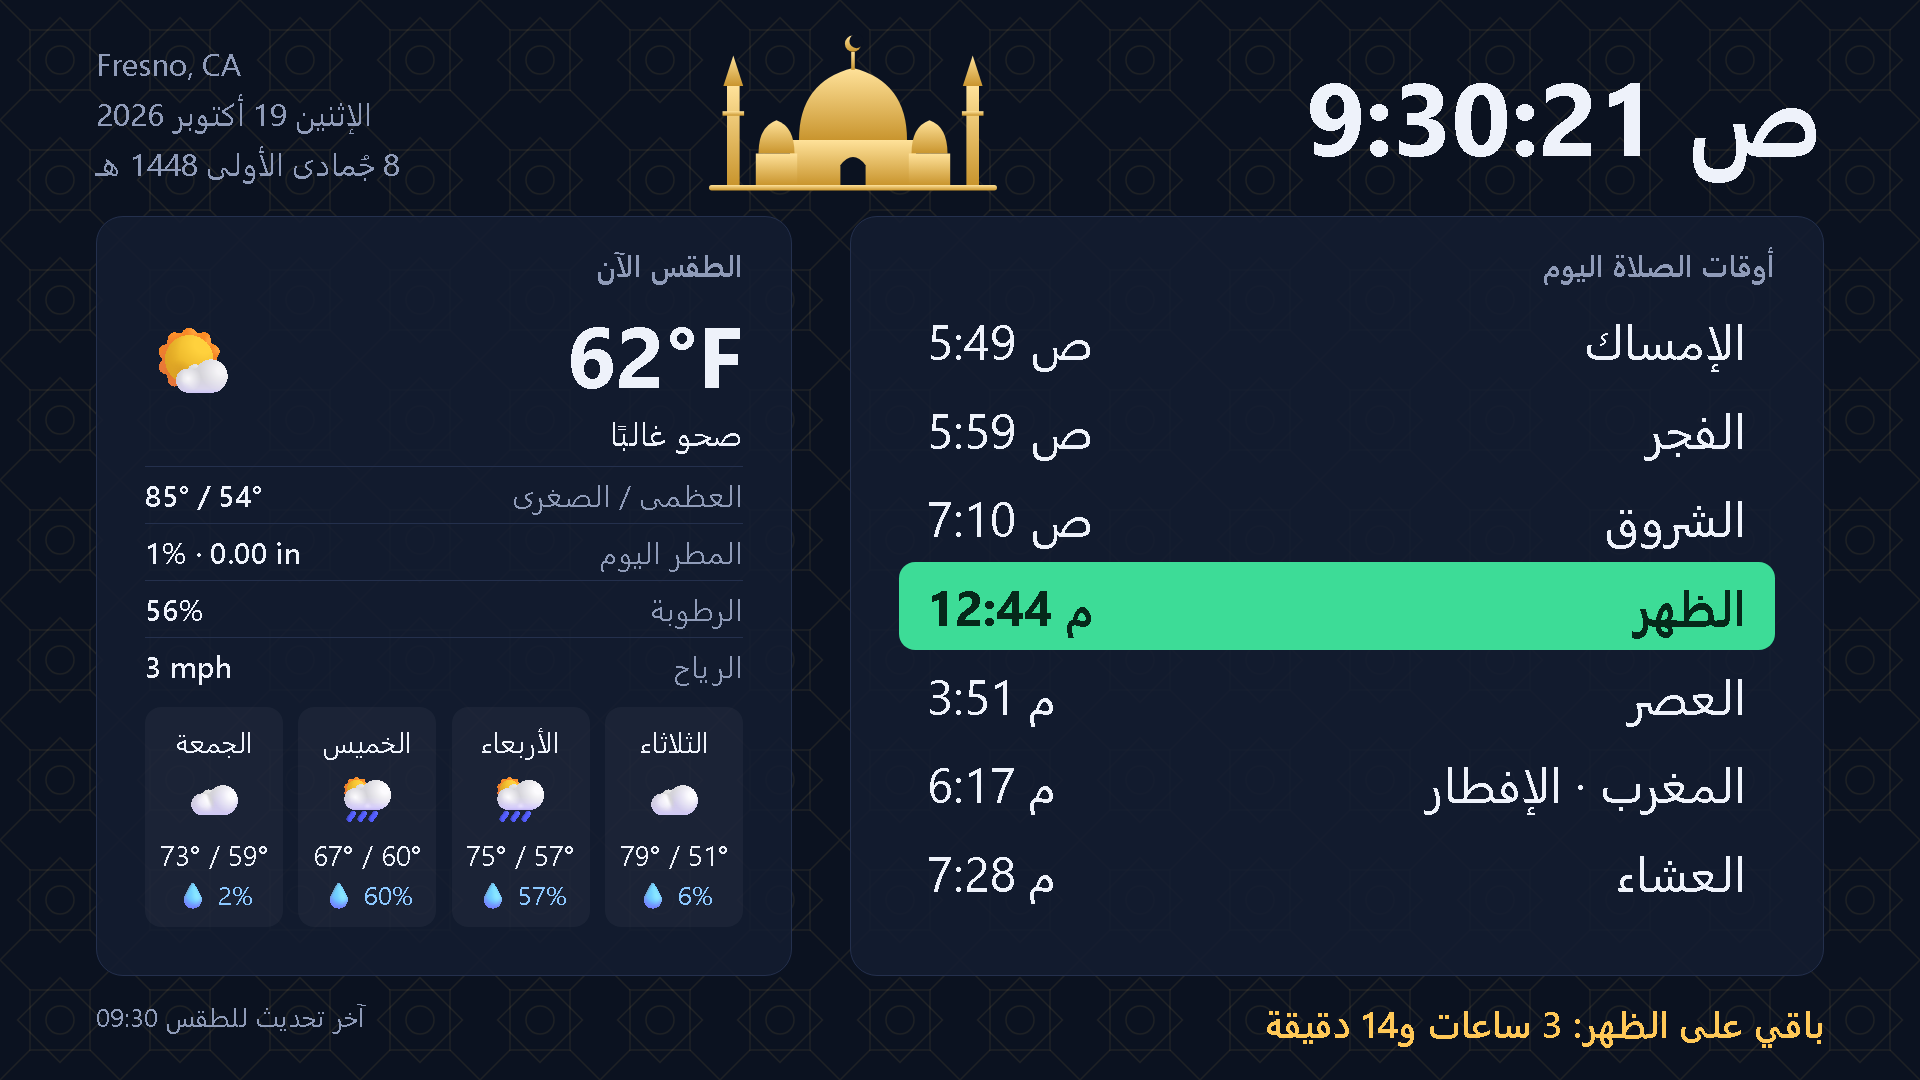
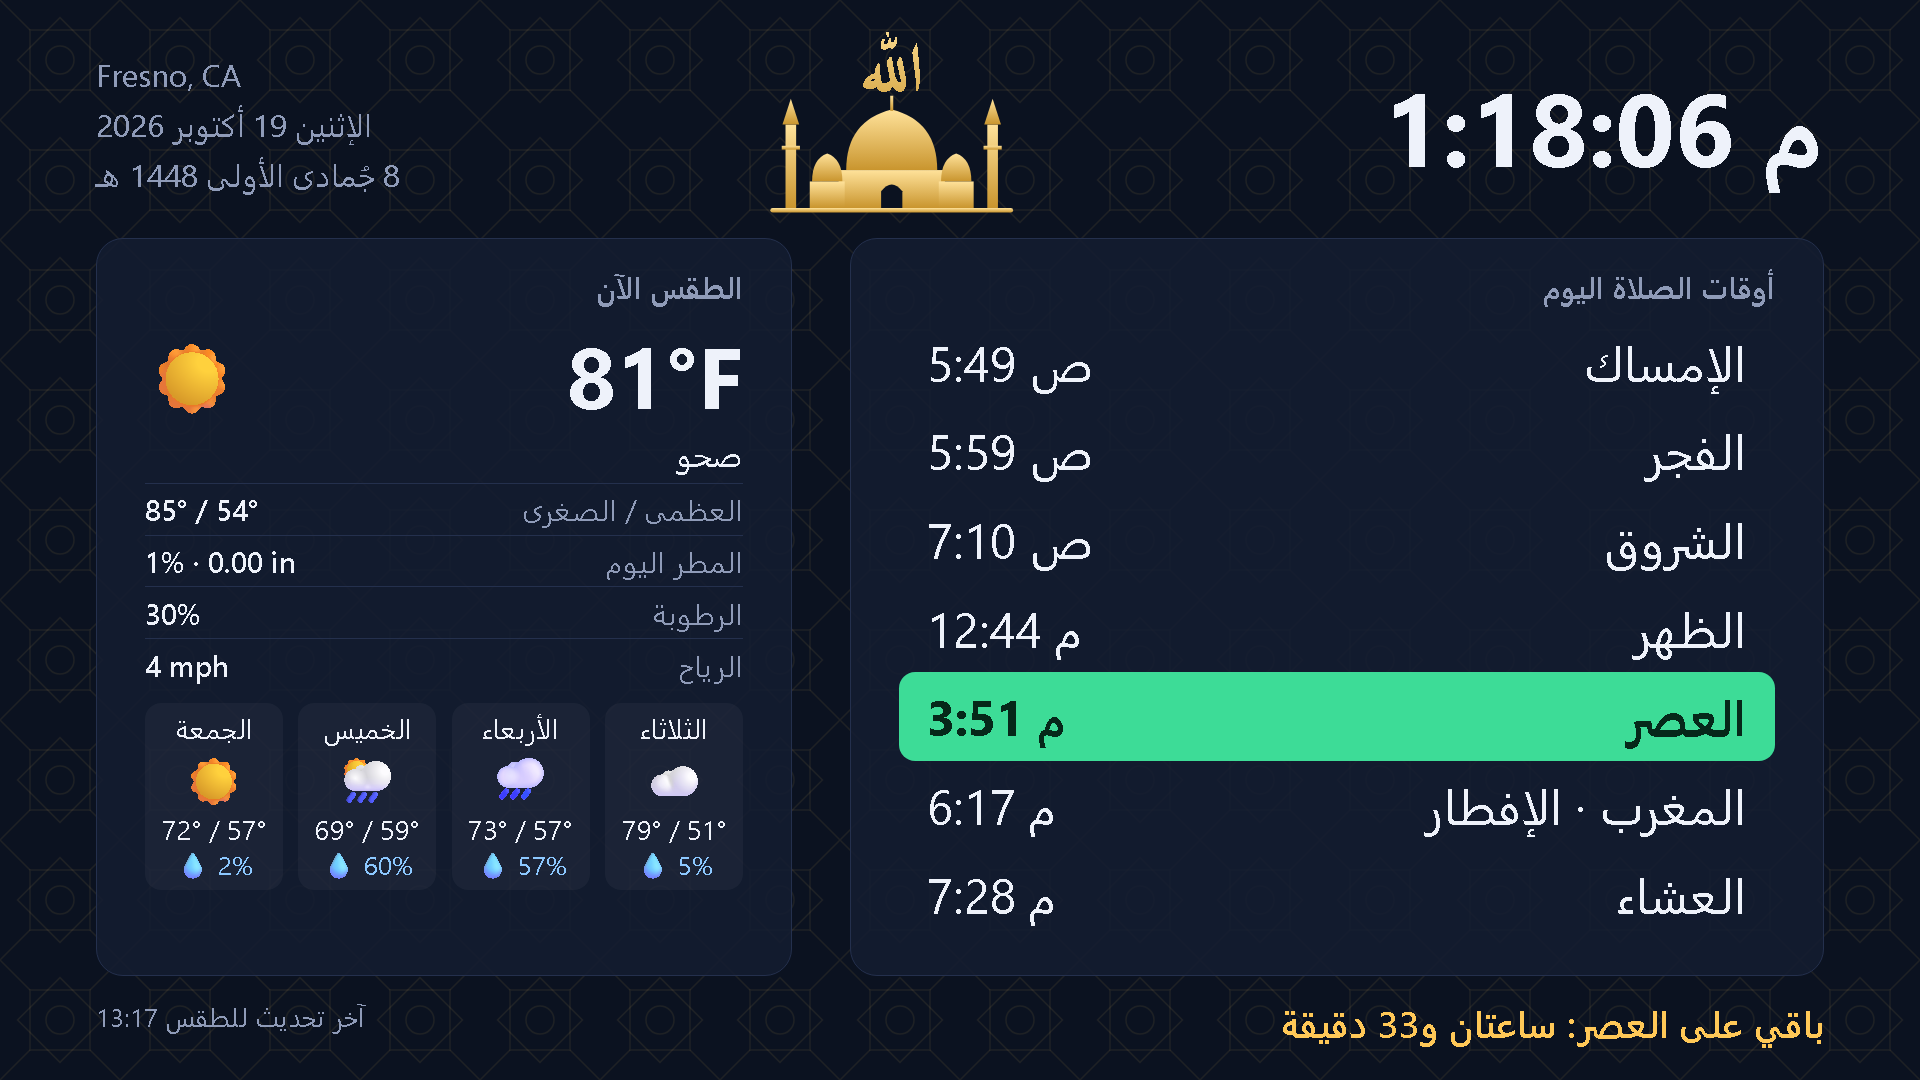
Replace the crescent with the word Allah (Amiri, OFL, subset embedded)

diff --git a/index.html b/index.html
@@ -13,7 +13,9 @@
          height:100vh; padding:3vh 5vw; display:grid; grid-template-rows:auto 1fr auto; gap:2vh; overflow:hidden; }
   header { display:flex; justify-content:space-between; align-items:center; }
   #clock { font-size:9.5vh; font-weight:700; letter-spacing:.02em; direction:ltr; }
-  #emblem { height:15vh; }
+  /* Amiri Bold (SIL OFL)، مقصور على حروف «الله» فقط */
[1 lines of base64/hex data omitted]
+  #emblem { height:17vh; }
   #date { font-size:2.9vh; color:var(--dim); text-align:left; line-height:1.6; }
   main { display:grid; grid-template-columns:1.4fr 1fr; gap:3vw; min-height:0; }
   .card { background:var(--card); border:1px solid var(--line); border-radius:2.5vh; padding:2.5vh 2.5vw; min-height:0; overflow:hidden; }
@@ -53,7 +55,7 @@
 <header>
   <div id="clock">--:--</div>
   <!-- مسجد وهلال: رسم أصلي -->
-  <svg id="emblem" viewBox="0 0 400 180" aria-hidden="true">
+  <svg id="emblem" viewBox="0 -62 400 242" aria-hidden="true">
     <defs><linearGradient id="gold" x1="0" y1="0" x2="0" y2="1"><stop offset="0" stop-color="#ffe29a"/><stop offset="1" stop-color="#c9952e"/></linearGradient></defs>
     <g fill="url(#gold)">
       <path d="M140 120 Q140 55 200 40 Q260 55 260 120 Z"/><rect x="130" y="120" width="140" height="50"/>
@@ -64,7 +66,7 @@
       <rect x="326" y="60" width="14" height="110"/><polygon points="322,60 333,26 344,60"/><rect x="321" y="88" width="24" height="5"/>
       <rect x="40" y="170" width="320" height="6" rx="3"/>
     </g>
-    <circle cx="200" cy="13" r="9" fill="url(#gold)"/><circle cx="204" cy="10" r="8" fill="#0b1220"/>
+    <text x="200" y="16" text-anchor="middle" font-family="AmiriAllah" font-weight="700" font-size="88" fill="url(#gold)">الله</text>
     <path d="M186 170 V148 Q200 130 214 148 V170 Z" fill="#0b1220"/>
   </svg>
   <div id="date">Fresno, CA<br><span id="greg"></span><br><span id="hijri"></span></div>

diff --git a/README.md b/README.md
@@ -19,7 +19,7 @@
 - **تأثير مطر متحرك** على الشاشة حين تمطر فعلًا.
 - **تنبيه ذهبي عند دخول الوقت**: يتحول صف الصلاة إلى ذهبي نابض، ويظهر «حان الآن وقت صلاة …» لمدة 15 دقيقة.
 - **الأذان بالصوت** عند دخول وقت كل صلاة. إن منع المتصفح الصوت التلقائي ظهر «اضغط OK مرتين لتفعيل صوت الأذان». في TV Bro تُظهر الضغطة الأولى المؤشر وتنقر الثانية.
-- خلفية بنقش هندسي إسلامي، ورسم مسجد وهلال أصلي.
+- خلفية بنقش هندسي إسلامي، ورسم مسجد أصلي يعلوه لفظ الجلالة بخط Amiri (رخصة SIL OFL).
 - أرقام غربية (0-9) في كل مكان.
 
 <p align="center"><img src="assets/screenshot.png" alt="لقطة شاشة" width="85%"></p>
